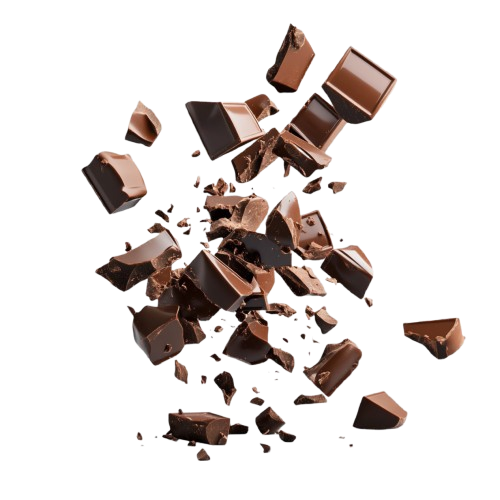
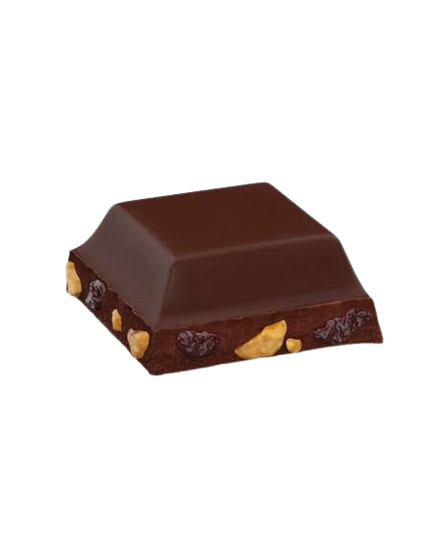
adjusted particles and animation

Changed region(s): [[0.125, 0.03, 0.9375, 0.93], [0.6875, 0.78, 0.8125, 0.87]]

diff --git a/src/App.jsx b/src/App.jsx
@@ -63,7 +63,6 @@ const App = () => {
         x: pos.x(),
         y: pos.y(),
         scale: gsap.utils.random(0.7, 1.2),
-        rotation: gsap.utils.random(-180, 180),
         opacity: 1,
         duration: gsap.utils.random(0.8, 1.2),
         ease: 'back.out(1.2)'
@@ -77,13 +76,10 @@ const App = () => {
         x: 0,
         y: 0,
         scale: 0.5,
-        opacity: 1, // Keep opacity 1 until fading fully
+        opacity: 0,
         duration: gsap.utils.random(0.3, 0.5),
         ease: 'power2.inOut'
       }, `${label}+=${gsap.utils.random(0, 0.1)}`);
-
-      // Fade out separately slightly faster at the end of movement
-      timeline.to(p, { opacity: 0, duration: 0.2 }, `${label}+=0.3`);
     });
   };
 
@@ -130,7 +126,7 @@ const App = () => {
         ease: 'power2.out'
       }, 1);
 
-    tl.addLabel("particlesScatter", 3);
+    tl.addLabel("particlesScatter", 5.5);
     scatterParticles(particleRefs.current, tl, "particlesScatter");
   });
 
@@ -181,7 +177,7 @@ const App = () => {
       ease: "power2.inOut",
     }, "start+=0.4")
 
-    master.to([heading, desc, btn], {
+    master.to([heading, desc], {
       y: -20,
       opacity: 0,
       duration: 0.5,
@@ -205,7 +201,7 @@ const App = () => {
 
     // Explicitly set starting values for the new image instead of fromTo
     master.set(img, { y: 150, opacity: 0, scale: 0.95 }, "enter")
-    master.set([heading, desc, btn], { y: 20, opacity: 0 }, "enter")
+    master.set([heading, desc], { y: 20, opacity: 0 }, "enter")
 
     // 6. Animate the new image and text in smoothly
     master.to(img, {
@@ -216,7 +212,7 @@ const App = () => {
       ease: "back.out(1.5)"
     }, "enter+=0.05")
 
-    master.to([heading, desc, btn], {
+    master.to([heading, desc], {
       y: 0,
       opacity: 1,
       duration: 0.8,
@@ -256,8 +252,8 @@ const App = () => {
               </div>
             </div>
 
-            <nav className="flex items-center gap-0 bg-white backdrop-blur-sm rounded-full py-1.5 px-2 shadow-[0_1px_4px_rgba(0,0,0,.06)]">
-              <a className="no-underline text-text-main text-[14px] font-semibold py-2 px-5 rounded-full cursor-pointer bg-bg">Home</a>
+            <nav className="flex items-center gap-0 bg-white/10 border border-white backdrop-blur-sm rounded-full py-1.5 px-2 shadow-[0_1px_4px_rgba(0,0,0,.06)]">
+              <a className="no-underline text-text-main text-[14px] font-semibold py-2 px-5 rounded-full cursor-pointer bg-black/5">Home</a>
               <a className="no-underline text-text-main text-[14px] font-medium py-2 px-5 rounded-full cursor-pointer hover:bg-gray-50 transition-colors">Products</a>
               <a className="no-underline text-text-main text-[14px] font-medium py-2 px-5 rounded-full cursor-pointer hover:bg-gray-50 transition-colors">Flavors</a>
               <a className="no-underline text-text-main text-[14px] font-medium py-2 px-5 rounded-full cursor-pointer hover:bg-gray-50 transition-colors">About</a>
@@ -284,7 +280,7 @@ const App = () => {
             {/* Particles */}
             <div className="absolute inset-0 flex items-center justify-center pointer-events-none z-[-1]">
               {Array(7).fill(0).map((_, i) => (
-                <img key={i} ref={el => particleRefs.current[i] = el} src={activeFlavor.particle} alt="" className="absolute w-20 h-20 object-contain opacity-0 scale-50" />
+                <img key={i} ref={el => particleRefs.current[i] = el} src={activeFlavor.particle} alt="" className="absolute w-30 h-30 object-contain opacity-0 scale-50" />
               ))}
             </div>
 